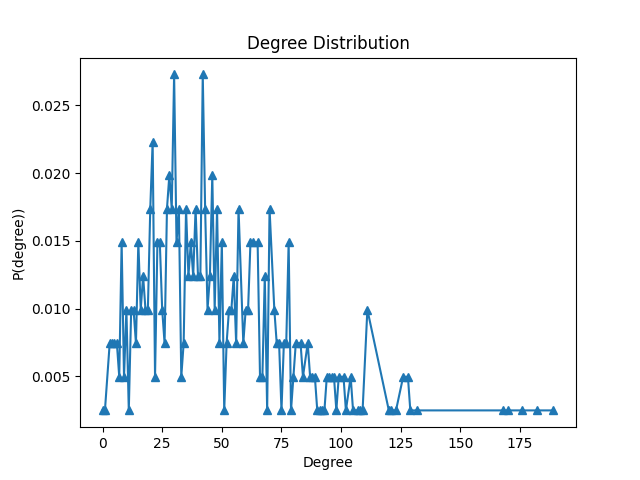
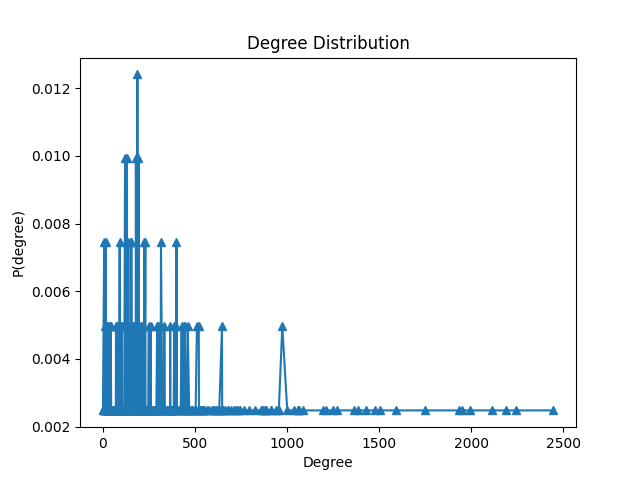
NET-8 Change implementation according to professor's answer

diff --git a/topological_properties.py b/topological_properties.py
@@ -8,27 +8,27 @@ file_name = "SFHH.xlsx"
 
 def read_file():
     dataframe = pd.read_excel(file_name)
-    edges = set()
+    edges = []
     nodes = set()
     for index, row in dataframe.iterrows():
         edge = (row['node1'], row['node2'])
         nodes.add(row['node1'])
         nodes.add(row['node2'])
-        edges.add(edge)
+        edges.append(edge)
 
     return edges, nodes
 
 
 if __name__ == "__main__":
     edges, nodes = read_file()
-    network = ig.Graph(edges)
+    network = ig.Graph(len(nodes), edges)
     degrees = network.degree()
 
     # PART A.1
     print('Number of nodes: ', len(nodes))  # 403
-    print('Number of links: ', len(edges))  # 9889
-    print('Average degree: ', sum(degrees) / len(degrees))  # 48.95
-    print('Standard deviation: ', np.std(np.array(network.degree())))  # 31.71
+    print('Number of links: ', len(edges))  # 70261
+    print('Average degree: ', sum(degrees) / len(degrees))  # 347.8267326732673
+    print('Standard deviation: ', np.std(np.array(network.degree())))  # 377.2790805649033
 
     # PART A.2
     degrees = network.degree()
@@ -43,17 +43,17 @@ if __name__ == "__main__":
         degree_frequency[key] = float(value/len(nodes))
     plt.plot(list(degree_frequency.keys()), list(degree_frequency.values()), marker='^', linestyle='-')
     plt.xlabel('Degree')
-    plt.ylabel('P(degree))')
+    plt.ylabel('P(degree)')
     plt.title('Degree Distribution')
     plt.savefig('a_2.png')
     plt.show()
 
     # PART A.3
-    print('Degree correlation (assortativity): ', network.assortativity_degree())  # -0.07
+    print('Degree correlation (assortativity): ', network.assortativity_degree())  # 0.4126192209888443
 
     # PART A.4
-    print('Clustering coefficient: ', network.transitivity_undirected())  # 0.235
+    print('Clustering coefficient: ', network.transitivity_undirected())  # 0.23590263303822398
 
     # PART A.5
-    print('Average hop count: ', network.average_path_length())  # 1.953
+    print('Average hop count: ', network.average_path_length())  # 1.9530140858980531
     print('Diameter : ', network.diameter())  # 4

diff --git a/Report.MD b/Report.MD
@@ -1,18 +1,19 @@
 # Modelling and Data analysis in Complex systems report
 ## Group information
 Group 1
-| Name | Student number |
-|-|-|
-| Andrei  Mereuta |  |
-| Anna Kalandadze |  |
-| Marco Bak | 5066212 |
+
+| Name            | Student number |
+|------           |----------------|
+| Andrei Mereuta  | 5230527 |
+| Anna Kalandadze | 5268915 |
+| Marco Bak       | 5066212 |
 
 ## Assignments
 ### A.1
 Number of nodes is: 403. \
 Number of links is: 9889. \
 Average degree is: 48.95. \
-Standaard deviation of the degree is: 31.71
+Standard deviation of the degree is: 31.71
 
 ### A.2
 ![Degree distribution of the network](./a_2.png)
